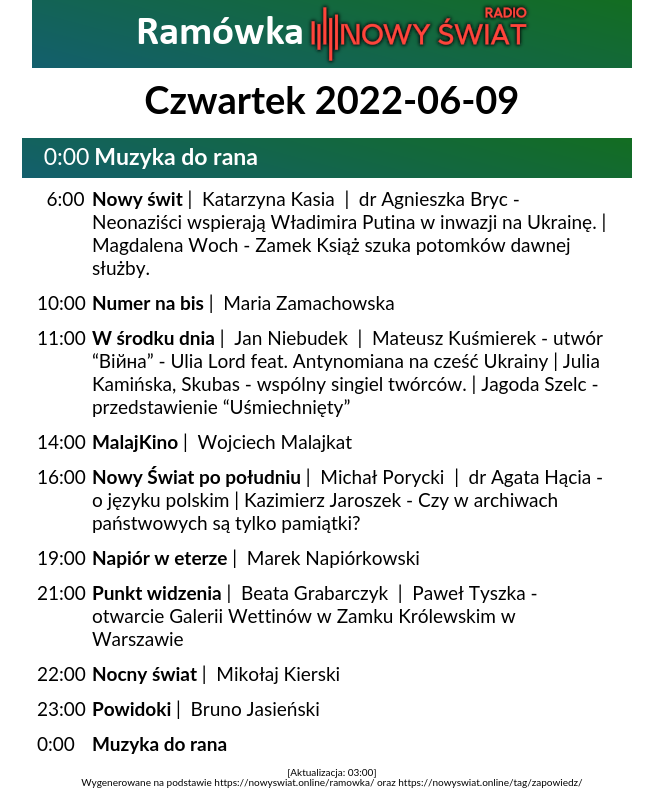
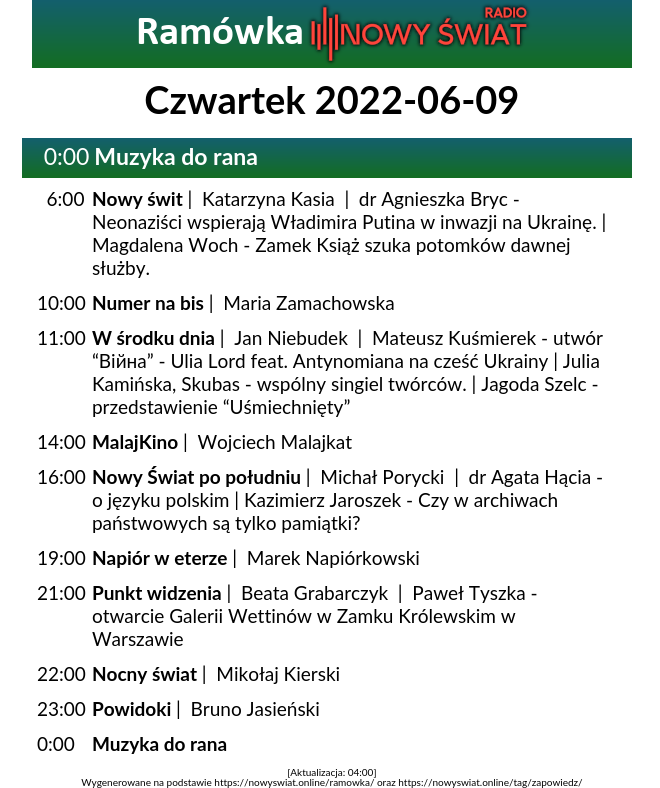
Regular auto-commit at 04:00:06 on 09/06/2022

Changed region(s): [[0.0303, 0.1523, 0.9697, 0.2437], [0.0303, 0.0, 0.9697, 0.0914]]

diff --git a/ramowka.html b/ramowka.html
@@ -26,7 +26,7 @@ img {
     margin: auto;
     text-align: center;
     background-color: #000;
-    background-image: linear-gradient(15deg, #135F6D 0%, #136D21 100%);
+    background-image: linear-gradient(to bottom, #135F6D 0%, #136D21 100%);
 }
 .time {
     display: block;
@@ -198,7 +198,7 @@ h1 {
             </div>
         </div>
 
-<p class="footer">[Aktualizacja: 03:00]<br/>Wygenerowane na podstawie https://nowyswiat.online/ramowka/ oraz https://nowyswiat.online/tag/zapowiedz/</p>
+<p class="footer">[Aktualizacja: 04:00]<br/>Wygenerowane na podstawie https://nowyswiat.online/ramowka/ oraz https://nowyswiat.online/tag/zapowiedz/</p>
 </div>
 </body>
 </html>

diff --git a/schedule.html b/schedule.html
@@ -84,7 +84,7 @@ img {
     <tr>
         <th colspan="9">
         <div class="container">
-          <div class="image"><img src="static/logo.png"><br/>Aktualizacja: 2022-06-09 03:00</div>
+          <div class="image"><img src="static/logo.png"><br/>Aktualizacja: 2022-06-09 04:00</div>
         </div>
         </th>
     </tr>
